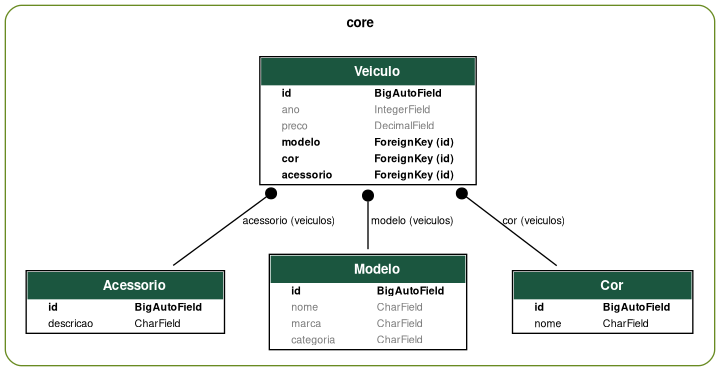
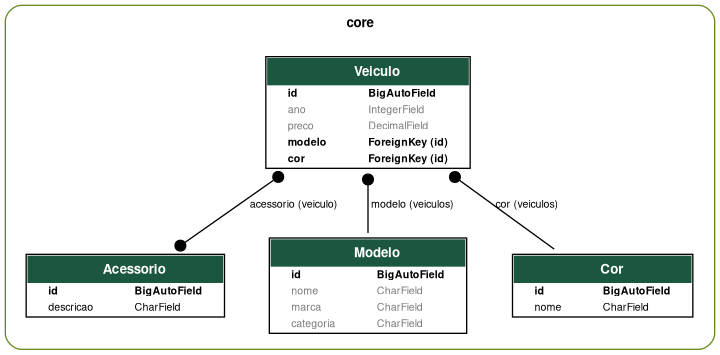
FIX: Consertado campo acessorio da model veiculos, trocando relação de 1 para muitos de muitos para muitos

diff --git a/core/models/veiculo.py b/core/models/veiculo.py
@@ -8,7 +8,7 @@ class Veiculo(models.Model):
     preco = models.DecimalField(max_digits=10, decimal_places=2, default=0, null=True, blank=True)
     modelo = models.ForeignKey(Modelo, on_delete=models.PROTECT, related_name='veiculos')
     cor = models.ForeignKey(Cor, on_delete=models.PROTECT, related_name='veiculos')
-    acessorio = models.ForeignKey(Acessorio, on_delete=models.PROTECT, related_name='veiculos')
+    acessorio = models.ManyToManyField(Acessorio, blank=True)
 
     def __str__(self):
         return f"{self.id} - {self.modelo} - {self.cor} - {self.ano}" 

diff --git a/core/migrations/0005_remove_veiculo_acessorio_veiculo_acessorio.py b/core/migrations/0005_remove_veiculo_acessorio_veiculo_acessorio.py
@@ -1,0 +1,22 @@
+# Generated by Django 5.2 on 2025-05-07 00:48
+
+from django.db import migrations, models
+
+
+class Migration(migrations.Migration):
+
+    dependencies = [
+        ('core', '0004_veiculo'),
+    ]
+
+    operations = [
+        migrations.RemoveField(
+            model_name='veiculo',
+            name='acessorio',
+        ),
+        migrations.AddField(
+            model_name='veiculo',
+            name='acessorio',
+            field=models.ManyToManyField(blank=True, to='core.acessorio'),
+        ),
+    ]
